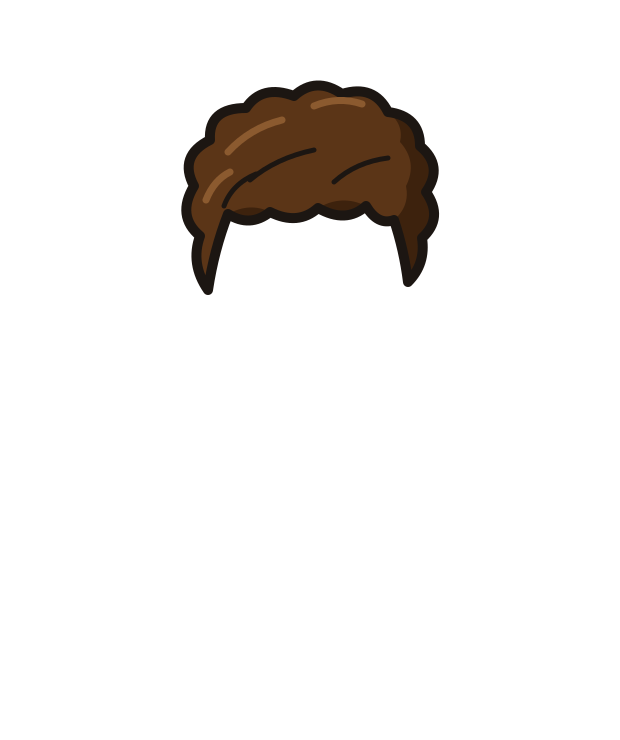
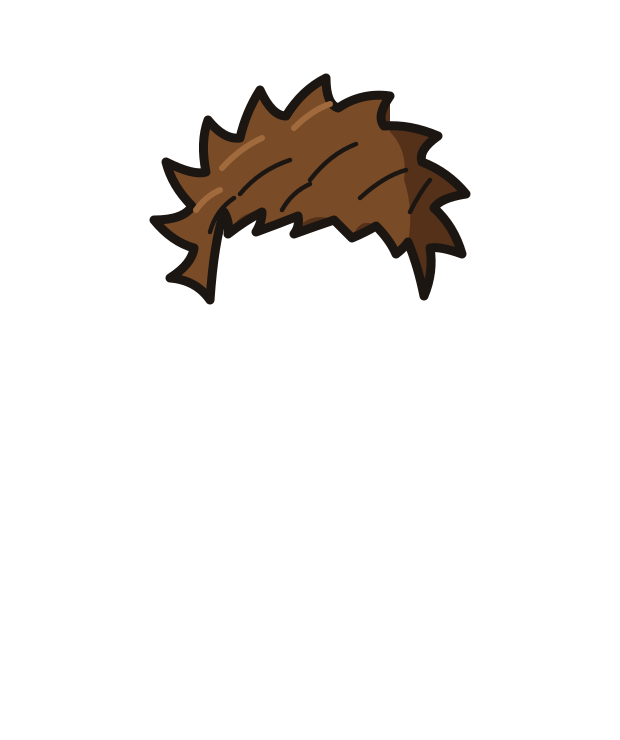
Max narrador: pelo como el Max de FLUX (melena despeinada con mechones en punta, castaño) y cejas encima del flequillo
Claude-Session: https://claude.ai/code/session_011EBLdtDwFqTXk5MdXRVpHG

Changed region(s): [[0.2452, 0.0932, 0.7661, 0.4041]]

diff --git a/tools/make_max_puppet.py b/tools/make_max_puppet.py
@@ -9,8 +9,8 @@ Capas (todas del mismo tamaño, se apilan en este orden):
   face            orejas, cara, sombras, barba
   eyes_<emo>[_blink]
   mouth_<forma>   bocas de Rhubarb A-H + idle_<emo> (boca en reposo según la emoción)
-  brows_<emo>
   hair
+  brows_<emo>     (encima del flequillo, para que siempre se vean las expresiones)
 
 Emociones: neutral, happy, excited, surprised, worried, scared, thinking.
 Estilo: cartoon adulto dibujado a mano, contornos negros gruesos, sombreado plano (cel), como el Max
@@ -26,9 +26,9 @@ W, H = 620, 740
 INK = "#1c1612"
 SKIN = "#f7d0b4"
 SKIN_SH = "#e8ad8f"
-HAIR = "#5b3517"
-HAIR_SH = "#3d220d"
-HAIR_HI = "#8b5a2f"
+HAIR = "#7a4b27"     # castaño como el Max de FLUX
+HAIR_SH = "#55311a"
+HAIR_HI = "#a06a3c"
 BROW = "#3d220d"
 STUBBLE = "#c79f78"
 ORANGE = "#f8921f"
@@ -139,25 +139,31 @@ FACE = f"""
 <path d="M410 486 Q420 482 418 472" fill="none" stroke="{SKIN_SH}" stroke-width="6" stroke-linecap="round"/>
 """
 
-# Pelo despeinado pero suave: mechones redondeados (no en punta) y flequillo cayendo de costado
-HAIR_PATH = ("M298 410 Q280 384 290 356 Q266 336 284 306 Q268 276 300 260 Q298 228 336 228 "
-             "Q352 204 384 216 Q406 196 432 214 Q464 204 478 232 Q510 236 510 266 Q534 286 516 312 "
-             "Q534 338 512 358 Q516 384 498 402 Q494 370 484 340 Q468 346 456 326 Q436 344 408 328 "
-             "Q388 346 360 332 Q340 348 318 334 Q304 370 298 410 Z")
+# Pelo como el Max de FLUX (docs/max_referencia.png): melena despeinada y ancha, mechones finos en punta que
+# salen para los costados y flequillo desprolijo cayendo sobre la frente hasta las cejas
+HAIR_PATH = ("M300 420 Q286 400 260 398 Q282 384 284 368 Q262 362 244 340 Q274 340 282 326 Q262 306 256 282 "
+             "Q284 296 296 292 Q290 262 298 240 Q314 260 330 258 Q336 232 350 210 Q362 236 376 236 "
+             "Q392 210 416 198 Q416 224 428 228 Q452 212 480 216 Q466 236 474 246 Q500 244 528 256 "
+             "Q508 270 512 282 Q538 292 556 314 Q530 318 524 328 Q544 346 552 374 Q530 366 520 368 "
+             "Q524 392 514 416 Q508 386 498 362 Q494 368 486 374 Q480 360 466 346 Q456 352 442 358 "
+             "Q436 352 424 340 Q406 346 384 354 Q390 346 388 336 Q368 344 346 352 Q352 342 352 332 "
+             "Q336 340 318 354 Q320 342 314 332 Q304 362 300 420 Z")
 HAIR = f"""
 <path d="{HAIR_PATH}" fill="{HAIR}"/>
 <g fill="{HAIR_SH}">
-  <path d="M478 232 Q510 236 510 266 Q534 286 516 312 Q534 338 512 358 Q516 384 498 402 Q494 370 484 340
-           Q500 326 496 306 Q508 282 490 262 Q494 244 478 232 Z"/>
-  <path d="M456 326 Q436 344 408 328 Q432 314 456 326 Z"/>
-  <path d="M360 332 Q340 348 318 334 Q340 322 360 332 Z"/>
+  <path d="M480 216 Q466 236 474 246 Q500 244 528 256 Q508 270 512 282 Q538 292 556 314 Q530 318 524 328
+           Q544 346 552 374 Q530 366 520 368 Q524 392 514 416 Q508 386 498 362 Q504 330 494 300 Q498 270 480 252 Z"/>
+  <path d="M424 340 Q406 346 384 354 Q398 330 424 340 Z"/>
+  <path d="M466 346 Q456 352 442 358 Q450 336 466 346 Z"/>
+  <path d="M352 332 Q336 340 318 354 Q330 330 352 332 Z"/>
 </g>
-<path d="{HAIR_PATH}" fill="none" stroke="{INK}" stroke-width="10" stroke-linejoin="round"/>
-<g fill="none" stroke="{HAIR_HI}" stroke-width="7" stroke-linecap="round">
-  <path d="M318 272 Q340 248 372 240"/><path d="M404 226 Q428 216 452 224"/><path d="M296 320 Q304 300 320 292"/>
+<path d="{HAIR_PATH}" fill="none" stroke="{INK}" stroke-width="9" stroke-linejoin="round"/>
+<g fill="none" stroke="{HAIR_HI}" stroke-width="6" stroke-linecap="round">
+  <path d="M312 288 Q330 268 352 258"/><path d="M384 248 Q402 230 420 224"/><path d="M286 330 Q296 316 310 310"/>
 </g>
-<g fill="none" stroke="{INK}" stroke-width="5" stroke-linecap="round">
-  <path d="M340 300 Q366 278 404 270"/><path d="M424 302 Q446 282 478 278"/><path d="M314 326 Q322 304 346 294"/>
+<g fill="none" stroke="{INK}" stroke-width="4.5" stroke-linecap="round">
+  <path d="M330 314 Q350 290 380 280"/><path d="M400 300 Q420 274 446 264"/><path d="M450 318 Q474 296 496 290"/>
+  <path d="M300 352 Q306 330 324 318"/><path d="M372 330 Q382 312 400 304"/><path d="M500 332 Q510 312 520 300"/>
 </g>"""
 
 

diff --git a/agents/puppet.py b/agents/puppet.py
@@ -173,7 +173,7 @@ class Puppet:
         key = (emotion, mouth, blink)
         if key not in self._head:
             img = self._layer("face").copy()
-            for n in (f"eyes_{emotion}{'_blink' if blink else ''}", mouth, f"brows_{emotion}", "hair"):
+            for n in (f"eyes_{emotion}{'_blink' if blink else ''}", mouth, "hair", f"brows_{emotion}"):
                 img.alpha_composite(self._layer(n))
             self._head[key] = img
         return self._head[key]
